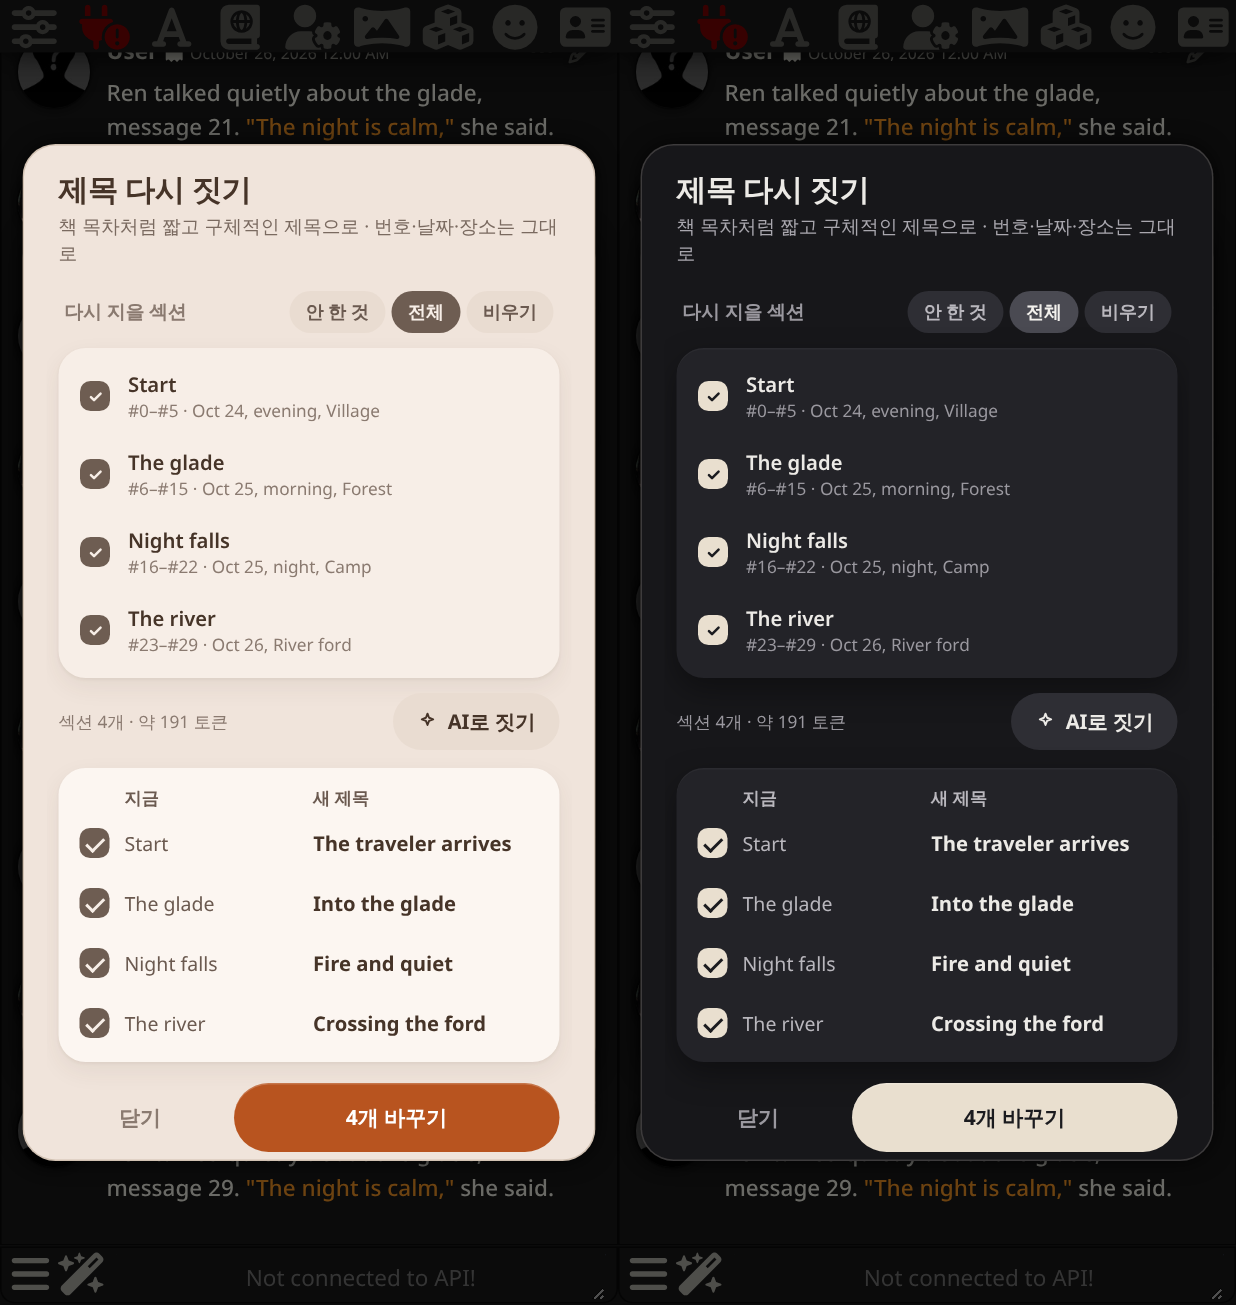
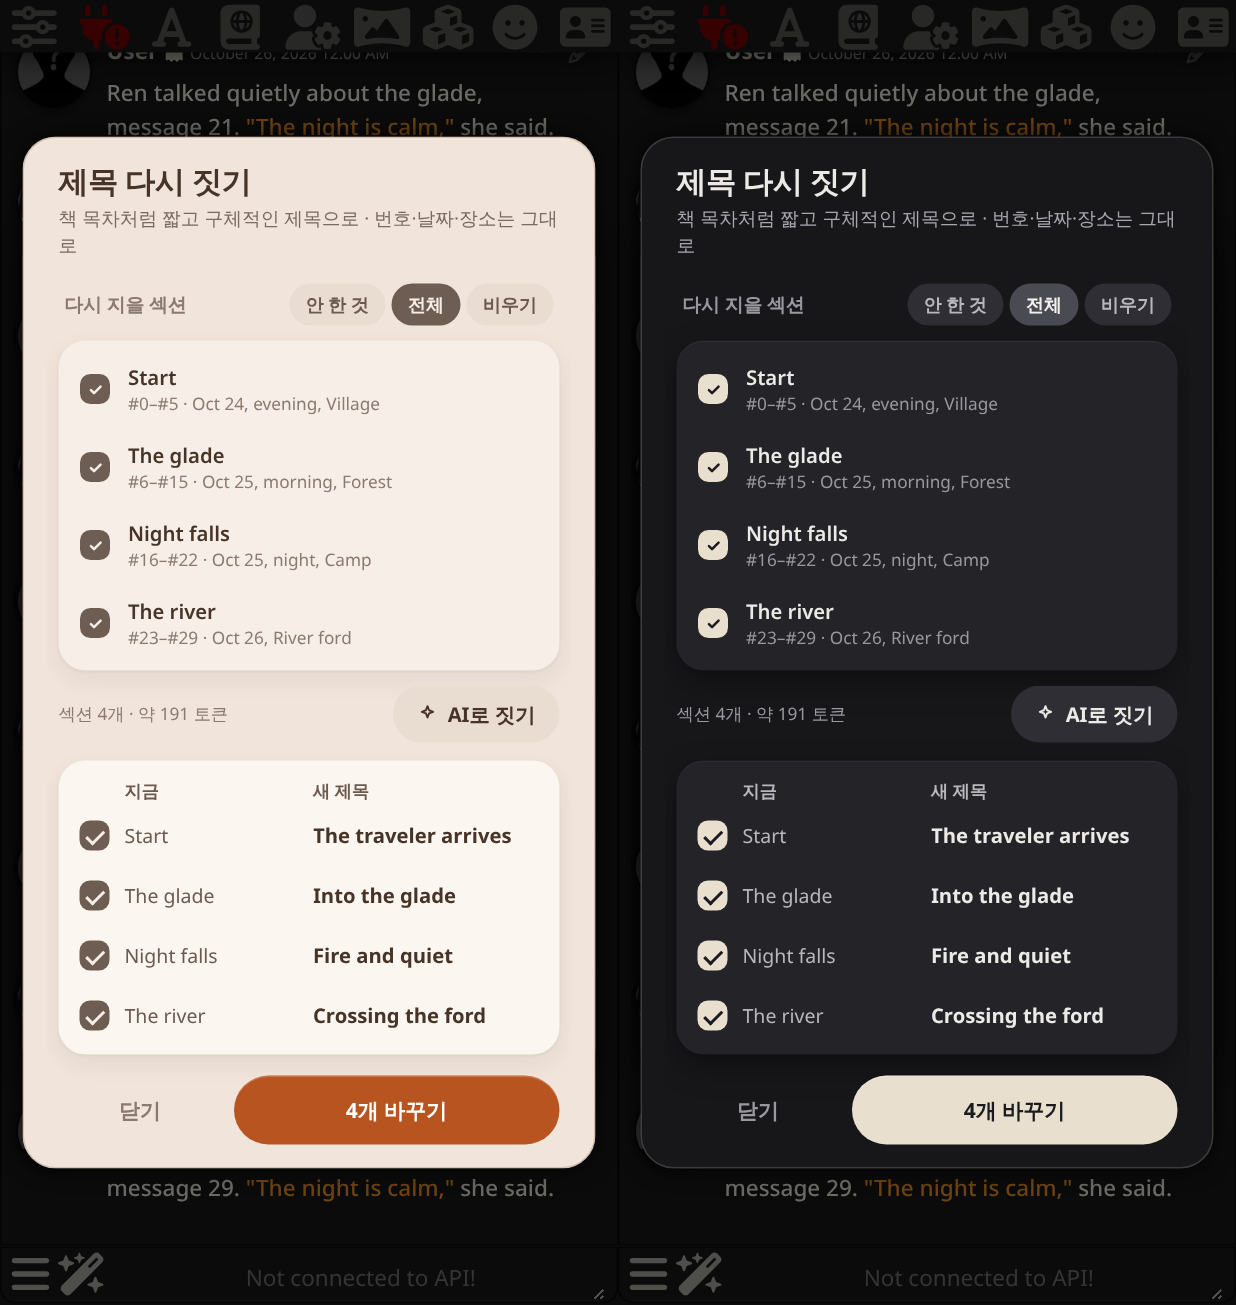
제목 다시 짓기: 결과 화면 아래 여백을 위와 같게 16px (3.169.32)
Claude-Session: https://claude.ai/code/session_01TBUyc5NesEMBcPKHWzpL6W

diff --git a/style.css b/style.css
@@ -8014,7 +8014,7 @@ body:is(.na_darkui, :not(.na_darkui)) .na_popup.na_rt .na_rt_row input.text_pole
 body:is(.na_darkui, :not(.na_darkui)) .na_popup.na_rt .na_rt_row input.text_pole.na_rt_new:not(#na_x):focus { background: var(--na-field, #E9DCD1) !important; outline: none; }
 body.na_darkui .na_popup.na_rt .na_rt_row input.text_pole.na_rt_new:not(#na_x):focus { background: #2E2E34 !important; }
 .na_rt .na_rt_row.same { opacity: 0.55; }
-.na_rt .na_rt_nav { display: grid; grid-template-columns: 1fr 2fr; gap: 8px; margin-top: 6px; }
+.na_rt .na_rt_nav { display: grid; grid-template-columns: 1fr 2fr; gap: 8px; margin-top: 6px; margin-bottom: 10px; }
 .na_rt .na_rt_nav button { height: 46px; border: 0; border-radius: 999px; font: inherit; font-size: 14px; font-weight: 700; cursor: pointer; }
 .na_rt .na_rt_close { background: transparent; color: var(--na-dim); }
 .na_rt .na_rt_apply { background: var(--na-accent); color: var(--na-onaccent, #fff); box-shadow: inset 0 1px 0 rgba(255, 255, 255, 0.2); }

diff --git a/src/core.js b/src/core.js
@@ -12,7 +12,7 @@ import { parseSections } from './sections.js';
 
 export const MODULE = 'narrative_archive';
 export const PROMPT_KEY = 'narrative_archive_injection';
-export const VERSION = '3.169.31';
+export const VERSION = '3.169.32';
 export const SNAPSHOT_MAX = 5;
 export const SNAPSHOT_MAX_CHARS = 2_000_000;
 

diff --git a/docs/DESIGN.md b/docs/DESIGN.md
@@ -80,6 +80,7 @@
 ### 2-6. 모양과 여백
 - 둥글기: 큰 카드 · 시트 22px, 타일 · 실물 카드 16~20px, 아이콘 타일 11~13px, 칩 · 배지 999px이에요. 한 화면에 둥글기 단계가 너무 많지 않게 해요.
 - 좌우 여백은 14~16px, 목록 줄은 위아래 12px, 카드 사이는 12~14px예요.
+- **확장 창은 위아래 여백이 같아야 해요(둘 다 16px).** 몇 번이나 말한 규칙이에요. 창 아래 버튼 줄을 직접 만들면(ST 기본 버튼을 숨기고 `닫기 | N개 바꾸기` 같은 줄을 넣으면) 기본 버튼 줄의 아래 10px이 사라지니 꼭 다시 넣어요. 결과 · 진행 중 화면도 같아야 해서, 고친 뒤에는 처음 화면과 결과 화면을 둘 다 재 봐요.
 - 섹션은 "작은 회색 제목 → 흰 카드" 묶음으로 나눠요. 카드 안에 또 카드를 넣지 않아요.
 
 ### 2-7. 정보와 상호작용
